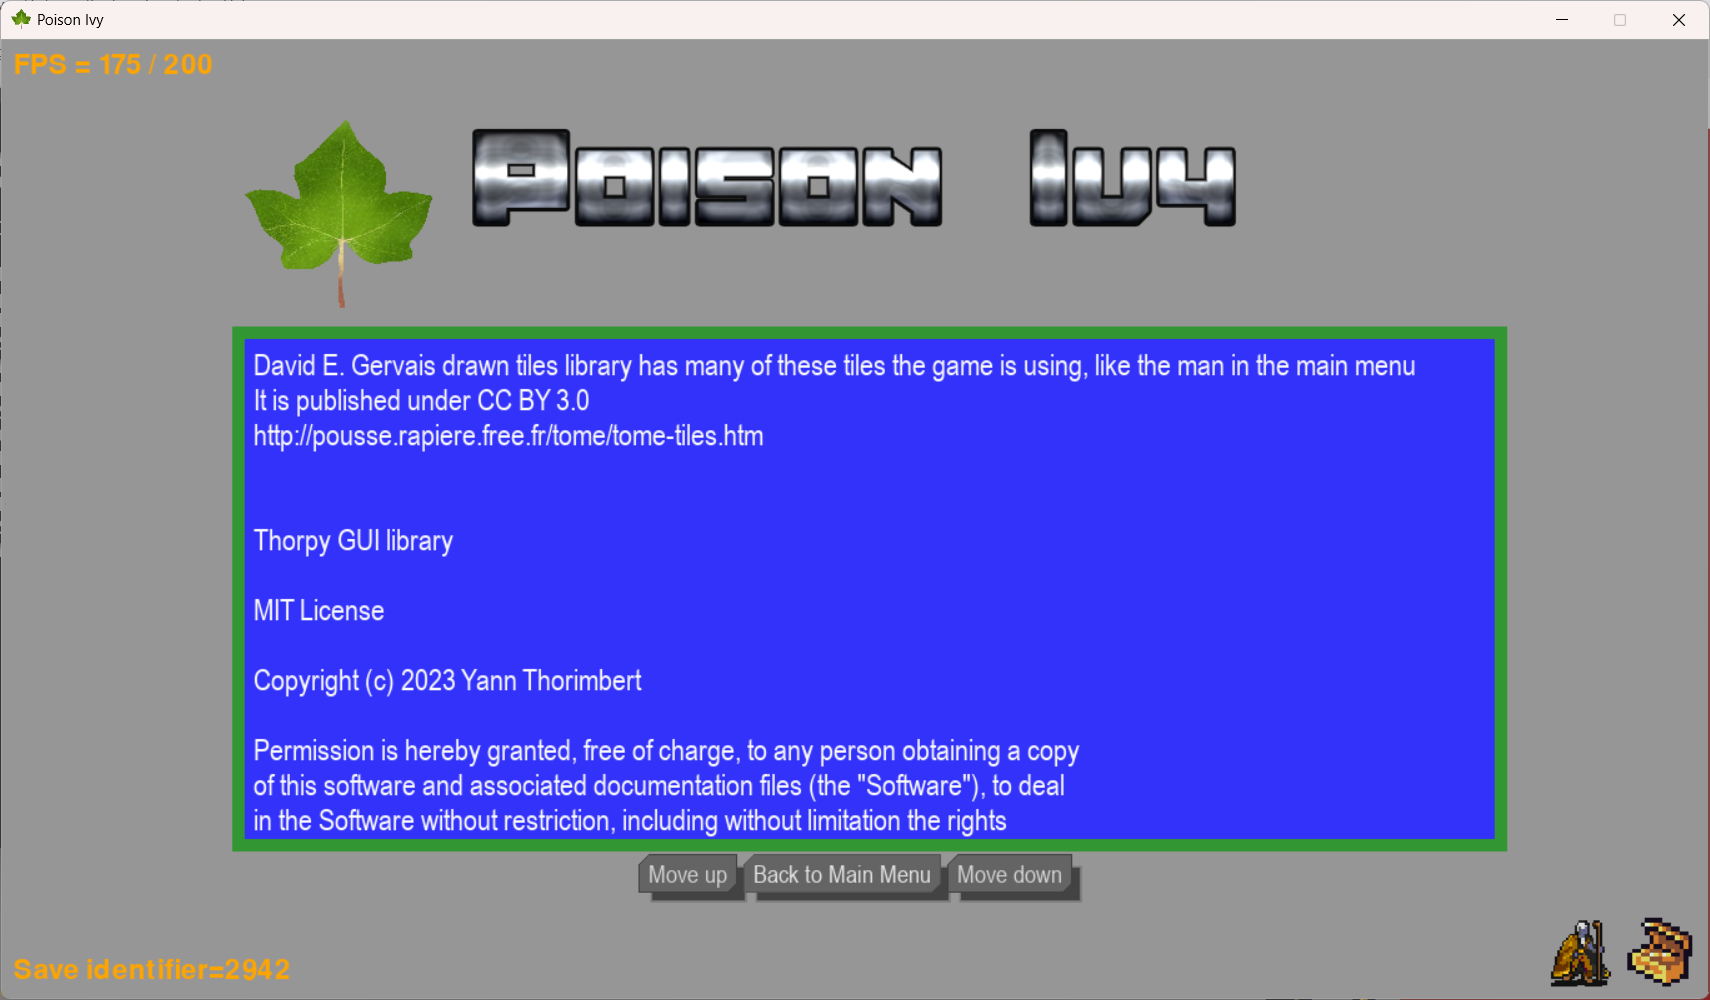
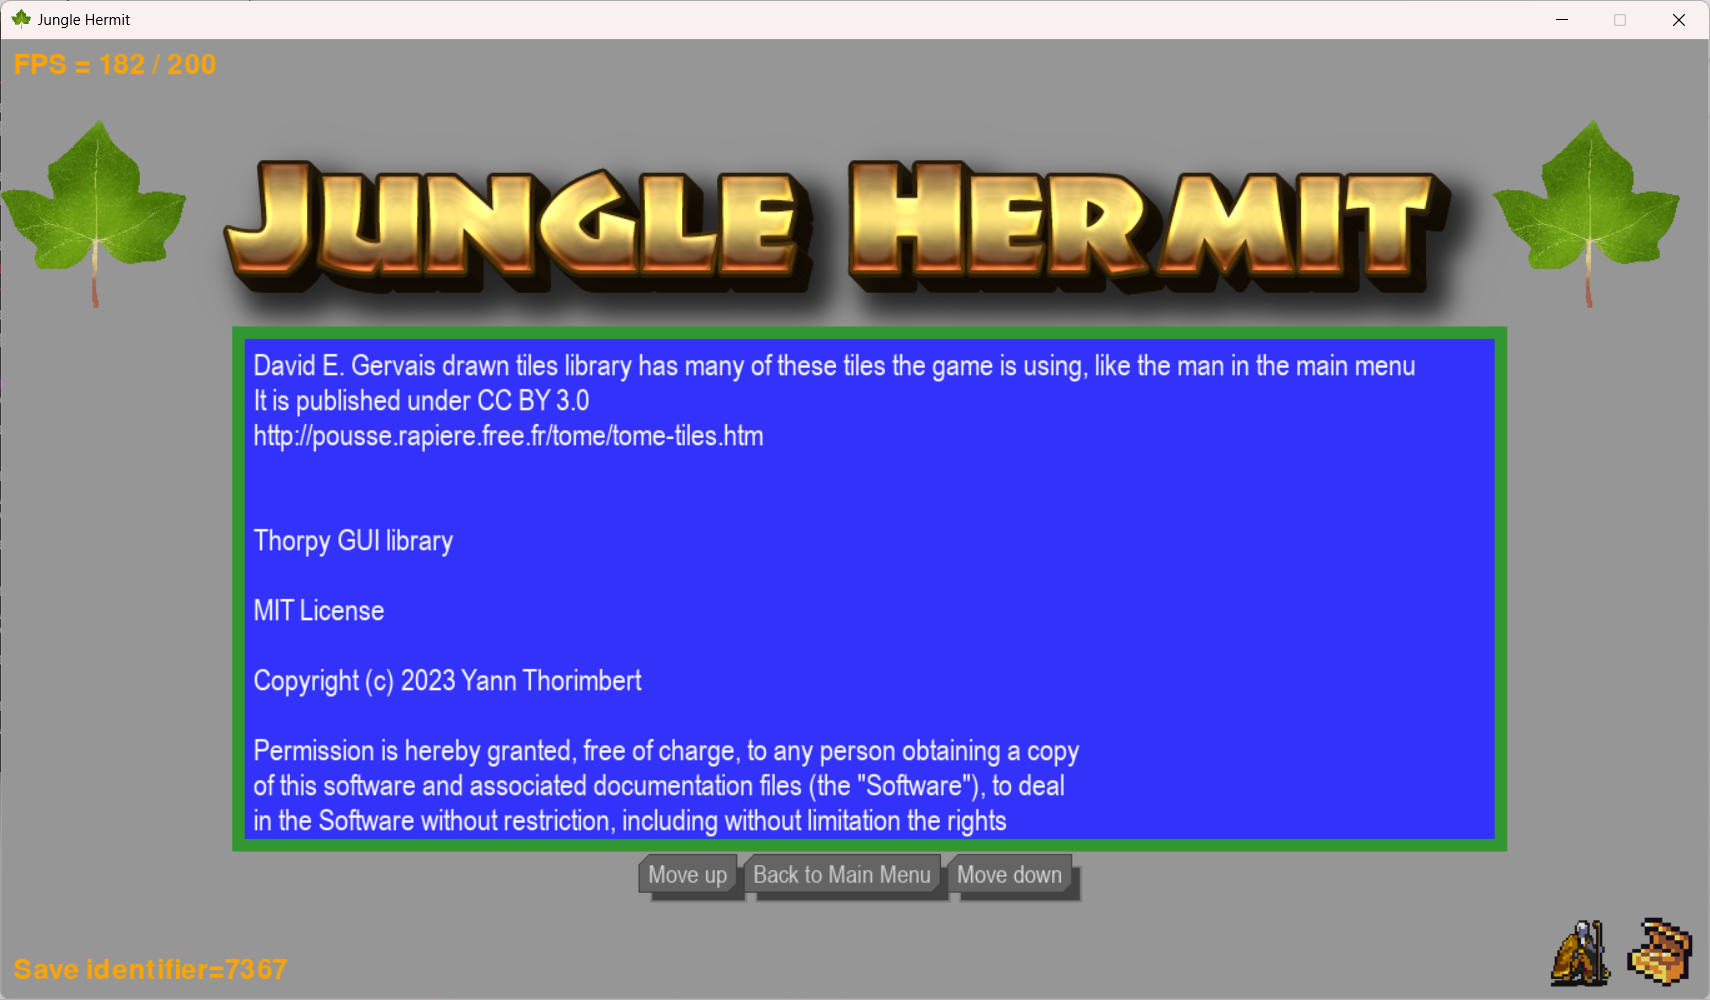
new screenshots and explanations

Changed region(s): [[0.0, 0.124, 1.0, 1.0], [0.062, 0.031, 0.124, 0.093], [0.031, 0.0, 0.062, 0.031]]

diff --git a/jungle.py b/jungle.py
@@ -694,28 +694,28 @@ Types = {
             "img_med": load_tile("gfx/taurian.png", monster_tile_size_med),
             "img_max": load_tile("gfx/taurian.png", monster_tile_size_max),
             "hp": 100,
-            "description": "Taurians are agile and strong. Their type of fighting is close combat with dual weapons. They don't wear armour but they instead dodge. That's a good style. They come from a lush jungle where they cook magic porridges so they have aptitude for magically enchanted things, and the whole area of ."
+            "description": "Taurians are agile and strong. Their type of fighting is close combat with dual weapons. They don't wear armour but they instead dodge. That's a good style. They come from a lush jungle where they cook magic porridges so they have aptitude for magically enchanted things, and the whole area of this magical jungle."
         }, 
         "dark elf": {
             "img_min": load_tile("gfx/dark_elf.png", monster_tile_size_min),
             "img_med": load_tile("gfx/dark_elf.png", monster_tile_size_med),
             "img_max": load_tile("gfx/dark_elf.png", monster_tile_size_max),
             "hp": 100,
-            "description": "Dark Elf is a frost mage who sings enemies into ice cubes. Their tactics are to slow enemies who are more powerful than they are or outright turn them into cubes which blocks the elf's own action completely as well. Their bones started getting cold so they came to Poison Ivy. Their ice is sometimes effective in this kind of climate."
+            "description": "Dark Elf is a frost mage who sings enemies into ice cubes. Their tactics are to slow enemies who are more powerful than they are or outright turn them into cubes which blocks the elf's own action completely as well. Their bones started getting cold so they came to this jungle. Their ice is sometimes effective in this kind of climate."
         },
         "skeleton": {
             "img_min": load_tile("gfx/skeleton.png", monster_tile_size_min),
             "img_med": load_tile("gfx/skeleton.png", monster_tile_size_med),
             "img_max": load_tile("gfx/skeleton.png", monster_tile_size_max),
             "hp": 100,
-            "description": "Skeletons have been animated by people who shouldn't have done that. The skeletons are angry at life and so they collect all kinds of spells and are one of the most powerful spell casters in Poison Ivy."
+            "description": "Skeletons have been animated by people who shouldn't have done that. The skeletons are angry at life and so they collect all kinds of spells and are one of the most powerful spell casters in this jungle."
         },
         "cyclops": {
             "img_min": load_tile("gfx/cyclops.png", monster_tile_size_min),
             "img_med": load_tile("gfx/cyclops.png", monster_tile_size_med),
             "img_max": load_tile("gfx/cyclops.png", monster_tile_size_max),
             "hp": 100,
-            "description": "Cyclopes are really good at lore. That makes them respect unique stuff which might not be the most powerful ones. Their tactic is to go in heavy armour, maybe even a shield. They come to Poison Ivy after lore. Sometimes when a Cyclops is killed they can see the future which means that a random enemy dies as well - maybe even the main boss."
+            "description": "Cyclopes are really good at lore. That makes them respect unique stuff which might not be the most powerful ones. Their tactic is to go in heavy armour, maybe even a shield. They come to this jungle after lore. Sometimes when a Cyclops is killed they can see the future which means that a random enemy dies as well - maybe even the main boss."
         }
     },
     "star sign": { 
@@ -729,7 +729,7 @@ Types = {
             "img_min": load_tile("gfx/obsidian_serpent.gif", monster_tile_size_min),
             "img_med": load_tile("gfx/obsidian_serpent.gif", monster_tile_size_med),
             "img_max": load_tile("gfx/obsidian_serpent.gif", monster_tile_size_max),
-            "description": 'In this poisonous realm known as Poison Ivy they are represented by a coiled serpent carved into black stone. They gain the ability called  “Poisoned Strike” - a sudden flurry of attacks that bypass defenses. After the strike light is dimmer around you and you dodge more.'
+            "description": 'In this jungle they are represented by a coiled serpent carved into black stone. They gain the ability called  “Poisoned Strike” - a sudden flurry of attacks that bypass defenses. After the strike light is dimmer around you and you dodge more.'
         },
         "iron helm": {
             "img_min": load_tile("gfx/iron_helm.gif", monster_tile_size_min),
@@ -741,7 +741,7 @@ Types = {
             "img_min": load_tile("gfx/ember_crown.gif", monster_tile_size_min),
             "img_med": load_tile("gfx/ember_crown.gif", monster_tile_size_med),
             "img_max": load_tile("gfx/ember_crown.gif", monster_tile_size_max),
-            "description": 'Since there is a sign only for metal - poison has carved a sign for the mind. A blazing circlet of fire hovering above a warrior\'s helm. It signifies detachment from equipment. And affinity for the elements. Especially fire and poison.'
+            "description": 'Since there is a sign only for metal - jungle has carved a sign for the mind. A blazing circlet of fire hovering above a warrior\'s helm. It signifies detachment from equipment. And affinity for the elements. Especially fire and poison.'
         },
         "ogre's blessing": {
             "img_min": load_tile("gfx/ogre\'s_blessing.png", monster_tile_size_min*2, monster_tile_size_min*4),
@@ -753,7 +753,7 @@ Types = {
             "img_min": load_tile("gfx/frog.png", monster_tile_size_min, monster_tile_size_min),
             "img_med": load_tile("gfx/frog.png", monster_tile_size_med, monster_tile_size_med),
             "img_max": load_tile("gfx/frog.png", monster_tile_size_max, monster_tile_size_max),
-            "description": 'Frogs are worried about equality. If one of your skills is too big, you can redistribute EXP from it to other skills. That can change up leveling. You can also have additional conversation opportunities with NPCs in Poison Ivy.'
+            "description": 'Frogs are worried about equality. If one of your skills is too big, you can redistribute EXP from it to other skills. That can change up leveling. You can also have additional conversation opportunities with NPCs in this jungle.'
         },
     }
 }
